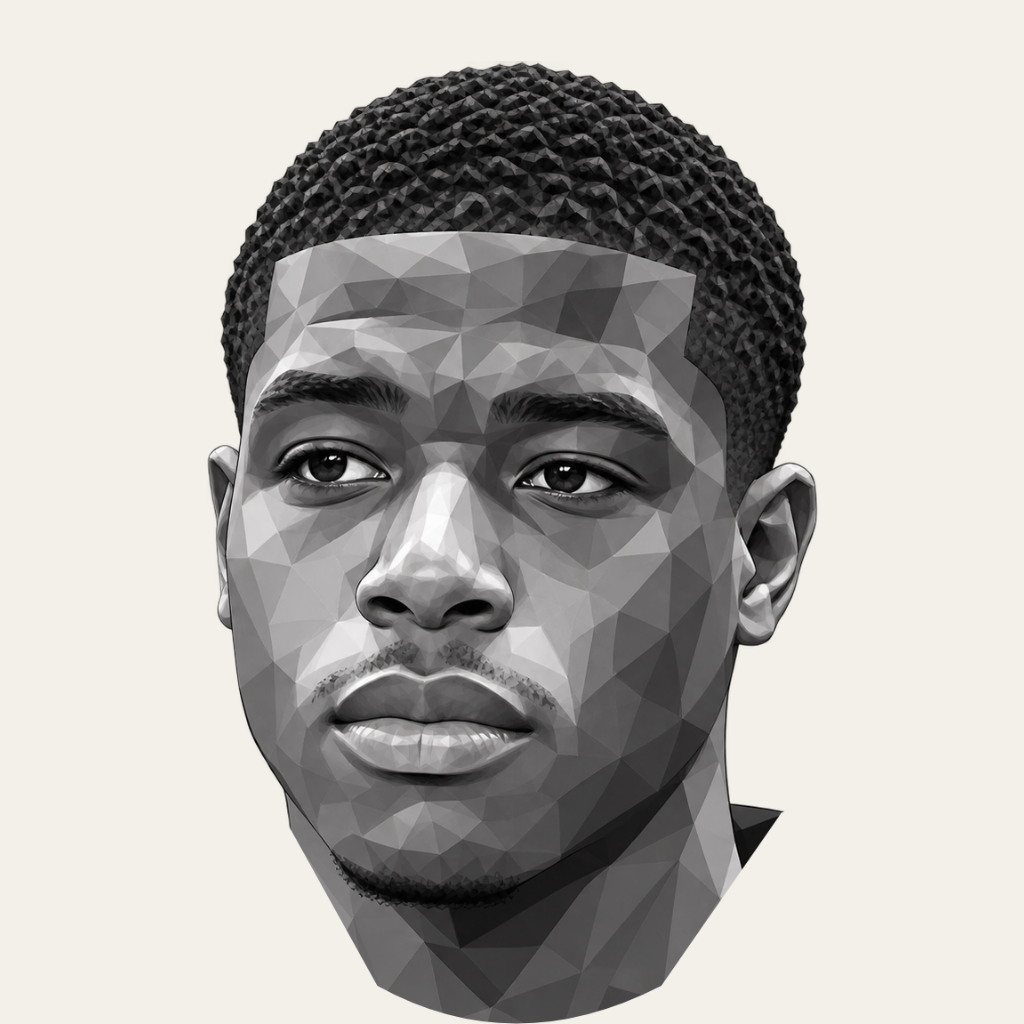
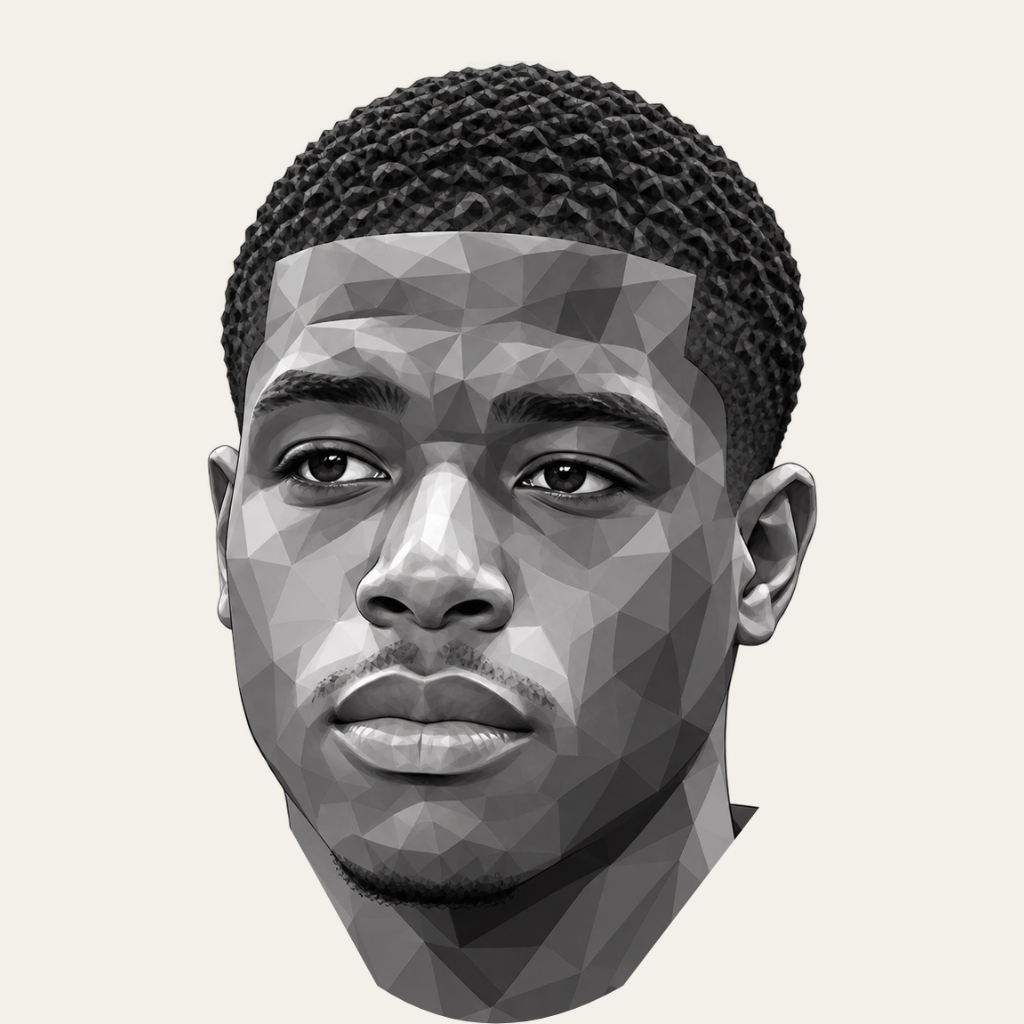
Home: show the greyscale bust instead of the green dotted portrait
- Desktop cover uses leslie.png (original black and white) at full strength
- Trimmed the leftover collar sliver on the right of the neck; favicon, app icon and avatar rebuilt from the cleaner cut

Changed region(s): [[0.5, 0.7812, 0.7812, 1.0], [0.4062, 0.9688, 0.4688, 1.0]]

diff --git a/src/app/page.tsx b/src/app/page.tsx
@@ -73,7 +73,9 @@ export default function Home() {
             </div>
           </div>
           <div className="order-1 hidden lg:order-2 lg:mt-0 lg:block lg:h-[min(640px,calc(100svh-300px))]">
-            <Dither shape={{ kind: "portrait", fit: "contain", align: 0.6 }} cell={3} label="Leslie Paul Ajayi, portrait rendered in green dots" />
+            <div className="relative h-full w-full">
+              <Image src="/portrait/leslie.png" alt="Leslie Paul Ajayi, a faceted greyscale portrait" fill priority sizes="(min-width: 1024px) 40vw, 0px" className="object-contain object-[60%_100%]" />
+            </div>
           </div>
         </div>
         <ul className="mt-8 grid grid-cols-2 gap-x-5 gap-y-4 border-t border-line pt-6 sm:grid-cols-3 md:mt-10 md:pt-7 lg:grid-cols-5">
